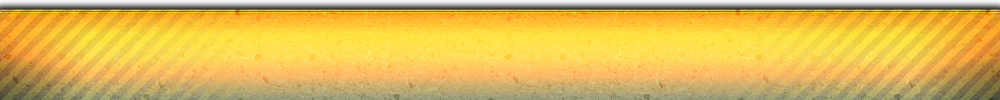
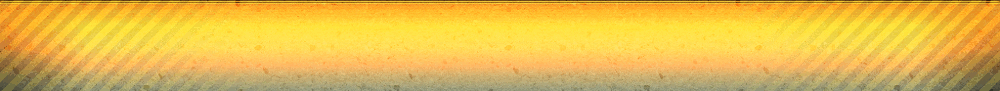
[stkaddons] Decrease file size of news bar bg
git-svn-id: https://svn.code.sf.net/p/supertuxkart/code@11578 178a84e3-b1eb-0310-8ba1-8eac791a3b58

diff --git a/stkaddons/trunk/tpl/default/screen.css b/stkaddons/trunk/tpl/default/screen.css
@@ -142,15 +142,23 @@ label {
     display: block;
     background-image: url('images/news-panel.png');
     width: 1000px;
-    height: 100px;
+    height: 91px;
+}
+#index-news-shadow {
+    display: block;
+    background-image: url('images/news-panel-shadow.png');
+    background-repeat: repeat-x;
+    width: 1000px;
+    height: 10px;
+    margin: 15px 0 0 0;
 }
 #news-messages {
     position: relative;
     display: block;
     list-style: none;
     font-size: 1.8em;
-    margin: 15px 0 0 0;
-    padding: 15px 0 0 0;
+    padding: 0px;
+    margin: 0px;
     width: 100%;
     height: 85px;
 }
